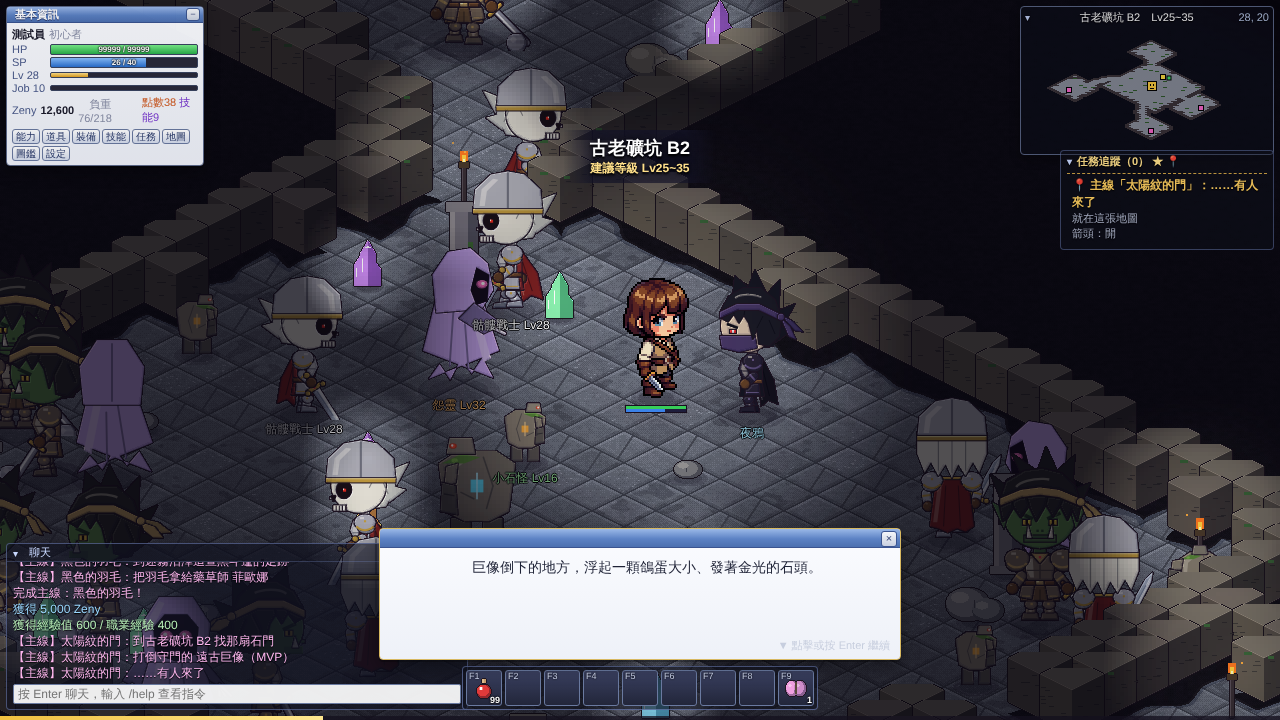
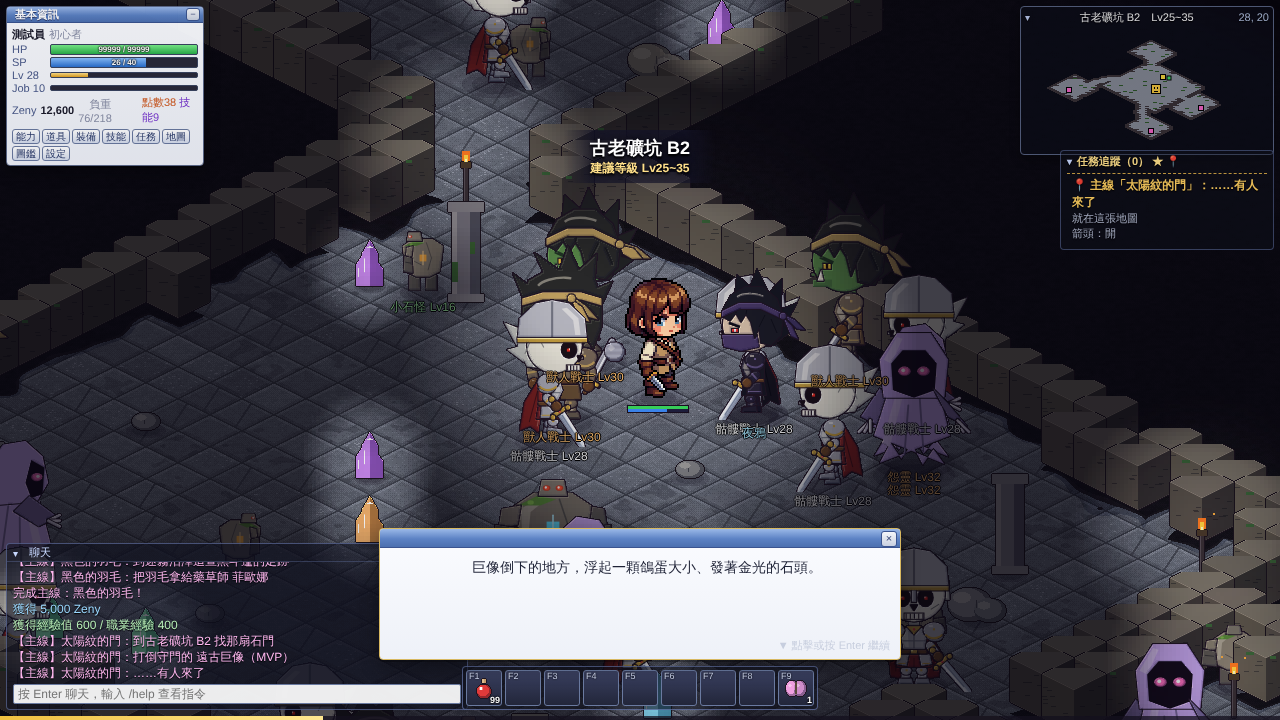
主線第三章：雪中舊營地、清醒的狼王、熔岩谷的黑影與遠征隊徽章、護符四階
Claude-Session: https://claude.ai/code/session_01T2m48yY9VNHhuqa1fb9V8L

diff --git a/ro-mmorpg/tools/act/story.js b/ro-mmorpg/tools/act/story.js
@@ -65,6 +65,12 @@ const out2 = await page.evaluate(() => {
   R.c2crow = D.isOpen && G.story.scene; finish(); step(120);
   G.loadMap('aurora', 25, 30); step(); walkSpot(); finish(); R.c2c = G.story.isDone('m_2c');
   R.charm3 = G.inv.items.filter((i) => i.id.startsWith('dawn_charm')).map((i) => i.id);
+  // 第三章
+  ch.baseLv = 55; step(); G.loadMap('snowfield', 8, 52); step(); walkSpot(); finish(); G.loadMap('ruins', 11, 49); step(); talk('herman'); finish(); R.c3a = G.story.isDone('m_3a');
+  ch.baseLv = 62; step(); G.loadMap('snowfield', 8, 52); step(); G.ev.emit('kill', 'frost_king'); step(); walkSpot(); finish(); R.c3b = G.story.isDone('m_3b');
+  ch.baseLv = 70; step(); G.loadMap('volcano', 8, 52); step(); G.ev.emit('kill', 'flame_wyrm'); step(10); step(160); R.c3crow = D.isOpen && G.story.scene; finish(); step(120);
+  walkSpot(); finish(); G.loadMap('starfall', 8, 23); step(); R.c3guide = G.guide.get().text; R.c3kane = talk('captain2'); finish(); R.c3c = G.story.isDone('m_3c');
+  R.charm4 = G.inv.items.filter((i) => i.id.startsWith('dawn_charm')).map((i) => i.id);
   R.after = [G.story.st.q, G.story.finished, G.guide.get()?.text];
   R.saved = JSON.parse(JSON.stringify(G.flags.story)).done.length;
   // 舊存檔：沒有 flags.story → 從序章開始

diff --git a/ro-mmorpg/PROGRESS.md b/ro-mmorpg/PROGRESS.md
@@ -647,3 +647,8 @@
 - 測試：`tools/act/bossgimmick.js`（五個機制的數值：巨像 ×0.7／×2.2、毒沼傷害、山賊王無敵→手下倒後 ×1.5、暴風雪圈內 0／圈外有傷、熔岩先預警後傷人）、`bossgimmick_shots.js`（截圖 `Boss_巨像核心暴露／巨蛇毒沼／山賊王躲手下／狼王暴風雪／地龍熔岩.png`）；`boss_bandit.js` 已配合躲手下調整，boss／skyboss／volcano／canyon／snowfield／story 回歸通過。
 - 還沒做（等你決定）：其餘 6 隻 Boss（啵啵王、三個轉職試煉、蒼雷守護者、深淵領主）、守護者劇情演出（血量一半時的殘念字幕）。
 - Boss 戰字幕（不暫停）：狂暴、瀕死、倒下時在血條下方出現守護者的殘念，台詞在 `data/story.json` 的 `bossLines`（5 隻主線 Boss；山賊王是人，台詞不同）。`ui/BossBar.ts` 的 `say()`。順便修正 Boss 血條換 Boss 時還顯示上一隻名字的小問題。測試在 `bossgimmick.js` 後半段。
+
+## 主線第三章（Lv55／62／70，凜冬雪原、熔岩谷、星落鎮）
+- 雪中的舊營地（遠征隊日誌，赫曼說出遠征隊只回來一個人「維克」）→ 清醒的狼王（打倒霜牙狼王後牠恢復理智，說明守護者是被光的流失逼瘋的）→ 熔岩谷的黑影（打倒赤焰地龍，夜鴉搶走第四顆曦核、掉下刻著「維克」的遠征隊徽章；星落鎮遠征隊長凱恩認出徽章，說出十年前的事）。完成後護符四階，+5 能力點數。
+- 章節結尾改在星落鎮（凱恩），第四章（天空神殿、深淵迴廊）從這裡接。測試 `tools/act/story.js` 已含第三章整條。
+- 下一步：第四章（蒼雷守護者、深淵領主、夜鴉（維克）開門）→ 終章（把曦核放回晨曦石，夜鴉結局讓玩家選）。

diff --git a/ro-mmorpg/STORY.md b/ro-mmorpg/STORY.md
@@ -1,6 +1,6 @@
 # 主線劇情大綱（草案，待作者確認）
 
-> 狀態：作者已同意大綱（2026-11）。**已實作：系統＋序章＋第一章＋第二章**；第三、四章、終章待做。台詞與步驟在 `data/story.json`。
+> 狀態：作者已同意大綱（2026-11）。**已實作：系統＋序章＋第一～三章**；第四章、終章待做。台詞與步驟在 `data/story.json`。
 > 原則：只用本作原創的地名、怪物與 NPC；現有的打怪／收集任務全部保留，改當「支線」；主線不擋練功，等級到了就能接。
 
 ## 一句話
